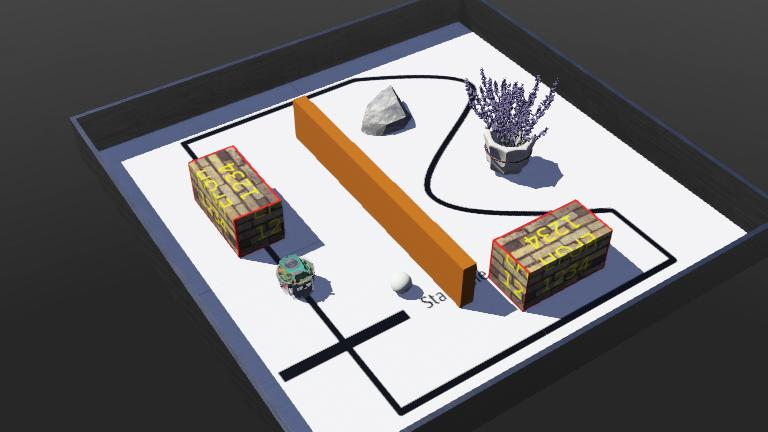
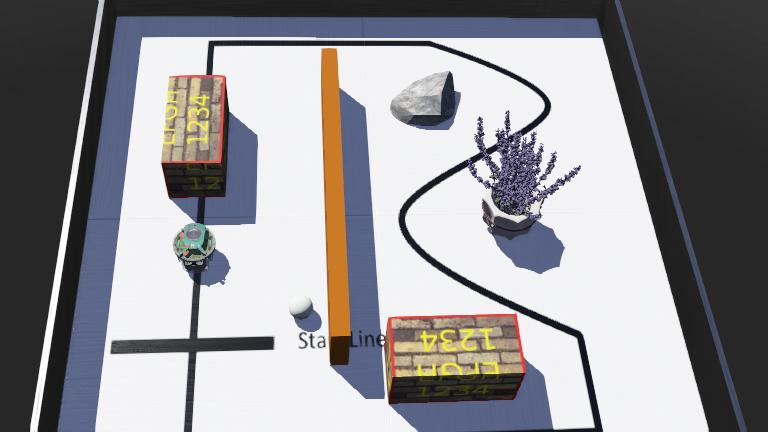
Fully working? No clue why the stutter is there

diff --git a/lab3/controllers/lab3/lab3.py b/lab3/controllers/lab3/lab3.py
@@ -17,7 +17,7 @@ AXLE_LENGTH = EPUCK_AXLE_DIAMETER = 0.053 # ePuck's wheels are 53mm apart.
 EPUCK_MAX_WHEEL_SPEED = 0.1257 # ePuck wheel speed in m/s
 MAX_SPEED = 6.28
 WHEEL_RADIUS = EPUCK_MAX_WHEEL_SPEED / MAX_SPEED
-DIST_TOL = 0.02
+DIST_TOL = 0.05
 ANGLE_TOL = 0.05
 
 # get the time step of the current world.
@@ -60,8 +60,8 @@ index = 1
 # Get ping pong ball marker that marks the next waypoint the robot is reaching
 marker = robot.getFromDef("marker").getField("translation")
 
-#Phi_l = X_R/r - dtheta/2r
-#Phi_r = X_R/r + dtheta/2r
+#Phi_l = X_R/r - d*theta/2r
+#Phi_r = X_R/r + d*theta/2r
 
 #Determine (Position Error) Calculate the Euclidean distance 𝜌 between your current location and the goal position.
 PosErr = 0
@@ -72,41 +72,58 @@ BerErr = 0
 #Determine (Heading Error) Calculate the angle 𝜂 between the orientation of the robot and the goal orientation.
 HedErr = 0
 
-#theres a decent chance these shouldn't be functions lol
-
 def wrap(a):
     return math.atan2(math.sin(a), math.cos(a))
     
+    
+MAX_TURN_WHEEL = 3.0
+
 def wheel_speeds(x_dot, theta_dot):
-    phi_l = (x_dot - theta_dot * AXLE_LENGTH / 2) / WHEEL_RADIUS
-    phi_r = (x_dot + theta_dot * AXLE_LENGTH / 2) / WHEEL_RADIUS
-    # Scale both wheels by the same factor so the robot keeps the same arc
-    biggest = max(abs(phi_l), abs(phi_r))
-    if biggest > MAX_SPEED:
-        phi_l *= MAX_SPEED / biggest
-        phi_r *= MAX_SPEED / biggest
+    turn = theta_dot * AXLE_LENGTH / 2 / WHEEL_RADIUS
+    turn = max(-MAX_TURN_WHEEL, min(MAX_TURN_WHEEL, turn))
+    
+    headroom = MAX_SPEED - abs(turn)
+    fwd = max(-headroom, min(headroom, x_dot / WHEEL_RADIUS))
+    
+    phi_l = max(-MAX_SPEED, min(MAX_SPEED, fwd - turn))
+    phi_r = max(-MAX_SPEED, min(MAX_SPEED, fwd + turn))
     return phi_l, phi_r
 
-def turn_drive_turn_control(): 
-    #Using <left/right>motor.setVelocity(), create a controller that rotates in place until the robot is facing the
-    #goal position (reduce bearing error), drives forward to the goal position (reduce position error), then
-    #rotates in place to orient to the proper heading (reduce heading error).
-    return none
 
-def proportional_controller():
-    #Calculate the necessary change in robot position 𝑋̇𝑅 that is
-    #proportional to 𝜌. Calculate the necessary change in robot rotation 𝜃̇𝑅 that is proportional to 𝛼 and 𝜂.
-    #Set values for left and right wheel motors accordingly.
-    
-    #Create a proportional feedback controller that uses the inverse kinematics equations with your error
-    #signals to compute the wheel rotations needed to make the position and rotation changes for driving to
-    #a given goal.
-    return none
+state = "turn_to_goal"
+
+def turn_drive_turn_control(rho, alpha, eta):
+    global state
+    x_dot, theta_dot, done = 0.0, 0.0, False
+    if state == "turn_to_goal":
+        theta_dot = 2.0 * alpha
+        if abs(alpha) < ANGLE_TOL:
+            state = "drive"
+    elif state == "drive":
+        x_dot = EPUCK_MAX_WHEEL_SPEED
+        theta_dot = 2.0 * alpha
+        if rho < DIST_TOL:
+            state = "turn_to_heading"
+    elif state == "turn_to_heading":
+        theta_dot = 2.0 * eta
+        if abs(eta) < ANGLE_TOL:
+            state = "turn_to_goal"
+            done = True
+    return x_dot, theta_dot, done
+
+P1, P2, P3 = 1.0, 4.0, 0.2  
+TURN_GAIN = 2.0              
+
+def proportional_controller(rho, alpha, eta):
+    if rho > DIST_TOL:
+        x_dot = P1 * rho * max(0.0, math.cos(alpha))
+        theta_dot = P2 * alpha + P3 * eta
+        return x_dot, theta_dot, False
+    return 0.0, TURN_GAIN * eta, abs(eta) < ANGLE_TOL
     
 
 # Main Control Loop:
 while robot.step(SIM_TIMESTEP) != -1:
-    # Safety check: make sure waypoints are defined
     if len(waypoints) == 0:
         print("ERROR: No waypoints defined! Please add waypoints to the waypoints list.")
         leftMotor.setVelocity(0.0)
@@ -128,11 +145,16 @@ while robot.step(SIM_TIMESTEP) != -1:
     PosErr = np.sqrt((pose_x-waypoints[index][0])**2 + (pose_y-waypoints[index][1])**2)
     
     gx, gy = waypoints[index]
-    nx, ny = waypoints[(index + 1) % len(waypoints)]
-    BerErr = math.atan2(gy - pose_y, gx - pose_x) - pose_theta
-    HedErr = math.atan2(ny - gy, nx - gx) - pose_theta
+    prev_x, prev_y = waypoints[index - 1]   # index 0 wraps to the last waypoint automatically
+    BerErr = wrap(math.atan2(gy - pose_y, gx - pose_x) - pose_theta)
+    HedErr = wrap(math.atan2(gy - prev_y, gx - prev_x) - pose_theta)
+ 
+    x_dot, theta_dot, done = proportional_controller(PosErr, BerErr, HedErr)
+    # x_dot, theta_dot, done = turn_drive_turn_control(PosErr, BerErr, HedErr)
+    vL, vR = wheel_speeds(x_dot, theta_dot)
     
-    # TODO: controller
+    if done:
+        index = (index + 1) % len(waypoints)
     
     print(f"{PosErr} {index}")
     print(f"{BerErr} {HedErr}")
